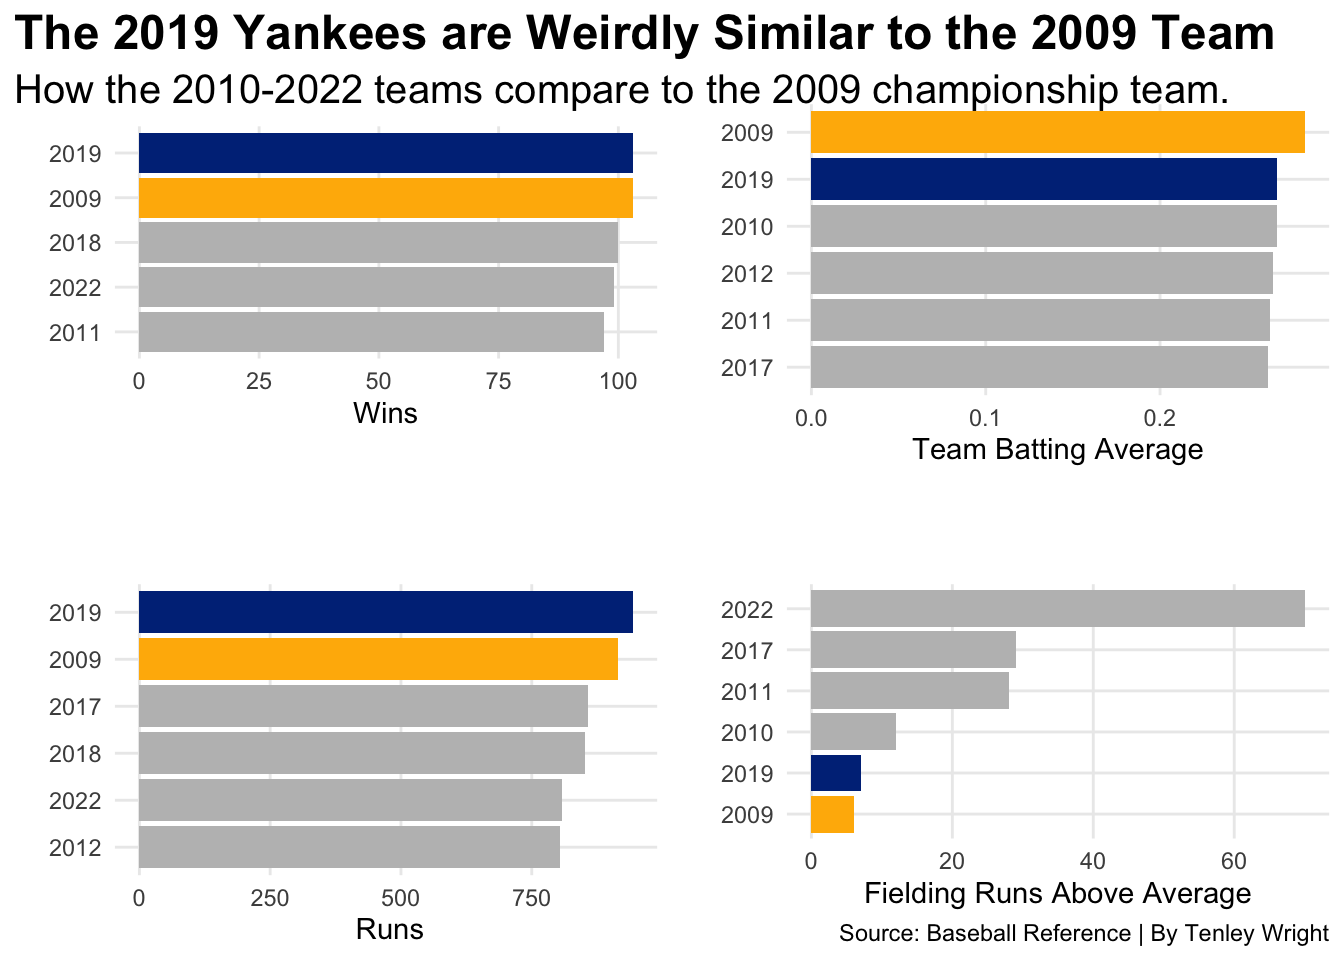
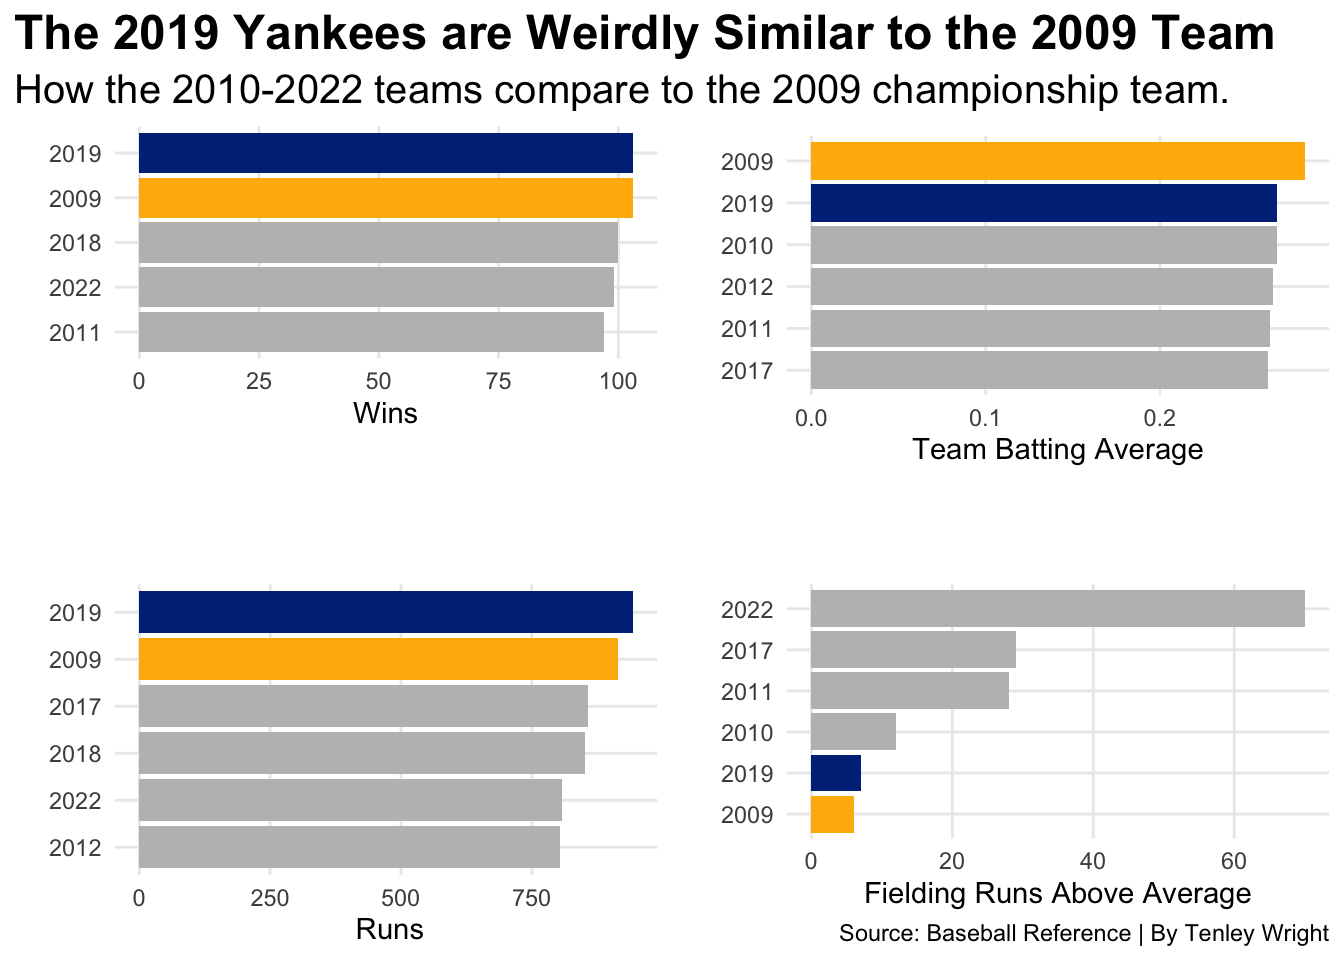
more grammar <3

Changed region(s): [[0.5312, 0.0938, 1.0, 0.375], [0.5312, 0.375, 0.5938, 0.4062], [0.9375, 0.375, 0.9688, 0.4062]]

diff --git a/posts/could-the-2019-yankees-end-the-drought/index.html b/posts/could-the-2019-yankees-end-the-drought/index.html
@@ -270,7 +270,7 @@ code span.wa { color: #60a0b0; font-weight: bold; font-style: italic; } /* Warni
 <span id="cb1-48"><a href="#cb1-48" aria-hidden="true" tabindex="-1"></a>  <span class="fu">geom_bar</span>(<span class="at">data=</span>NY2009, <span class="fu">aes</span>(<span class="at">x=</span><span class="fu">reorder</span>(Season, BAVG), <span class="at">weight=</span>BAVG), <span class="at">fill=</span><span class="st">"#ffb603"</span>) <span class="sc">+</span></span>
 <span id="cb1-49"><a href="#cb1-49" aria-hidden="true" tabindex="-1"></a>  <span class="fu">geom_bar</span>(<span class="at">data=</span>NY2019, <span class="fu">aes</span>(<span class="at">x=</span><span class="fu">reorder</span>(Season, BAVG), <span class="at">weight=</span>BAVG), <span class="at">fill=</span><span class="st">"#003087"</span>) <span class="sc">+</span></span>
 <span id="cb1-50"><a href="#cb1-50" aria-hidden="true" tabindex="-1"></a>  <span class="fu">coord_flip</span>() <span class="sc">+</span> </span>
-<span id="cb1-51"><a href="#cb1-51" aria-hidden="true" tabindex="-1"></a>  <span class="fu">labs</span>(<span class="at">title =</span> <span class="st">""</span>, <span class="at">subtitle=</span> <span class="st">""</span>, <span class="at">x=</span><span class="st">""</span>, <span class="at">y=</span><span class="st">"Team Batting Average"</span>) <span class="sc">+</span> </span>
+<span id="cb1-51"><a href="#cb1-51" aria-hidden="true" tabindex="-1"></a>  <span class="fu">labs</span>(<span class="at">title =</span> <span class="st">""</span>, <span class="at">subtitle=</span> <span class="st">" </span><span class="sc">\n</span><span class="st">"</span>, <span class="at">x=</span><span class="st">""</span>, <span class="at">y=</span><span class="st">"Team Batting Average"</span>) <span class="sc">+</span> </span>
 <span id="cb1-52"><a href="#cb1-52" aria-hidden="true" tabindex="-1"></a>  <span class="fu">theme_minimal</span>() <span class="sc">+</span> </span>
 <span id="cb1-53"><a href="#cb1-53" aria-hidden="true" tabindex="-1"></a>  <span class="fu">theme</span>(</span>
 <span id="cb1-54"><a href="#cb1-54" aria-hidden="true" tabindex="-1"></a>    <span class="at">axis.title =</span> <span class="fu">element_text</span>(<span class="at">size =</span> <span class="dv">11</span>), </span>

diff --git a/index.html b/index.html
@@ -171,7 +171,7 @@ ul.task-list li input[type="checkbox"] {
 
 <div class="quarto-listing quarto-listing-container-default" id="listing-listing">
 <div class="list quarto-listing-default">
-<div class="quarto-post image-right" data-index="0" data-categories="Baseball,Code,Yankees" data-listing-date-sort="1683435600000" data-listing-file-modified-sort="1683345727566" data-listing-reading-time-sort="7.425">
+<div class="quarto-post image-right" data-index="0" data-categories="Baseball,Code,Yankees" data-listing-date-sort="1683435600000" data-listing-file-modified-sort="1683346147934" data-listing-reading-time-sort="7.43">
 <div class="thumbnail">
 <p><a href="./posts/could-the-2019-yankees-end-the-drought/index.html"> <img src="./posts/could-the-2019-yankees-end-the-drought/image.png" class="thumnail-image"> </a></p>
 </div>
